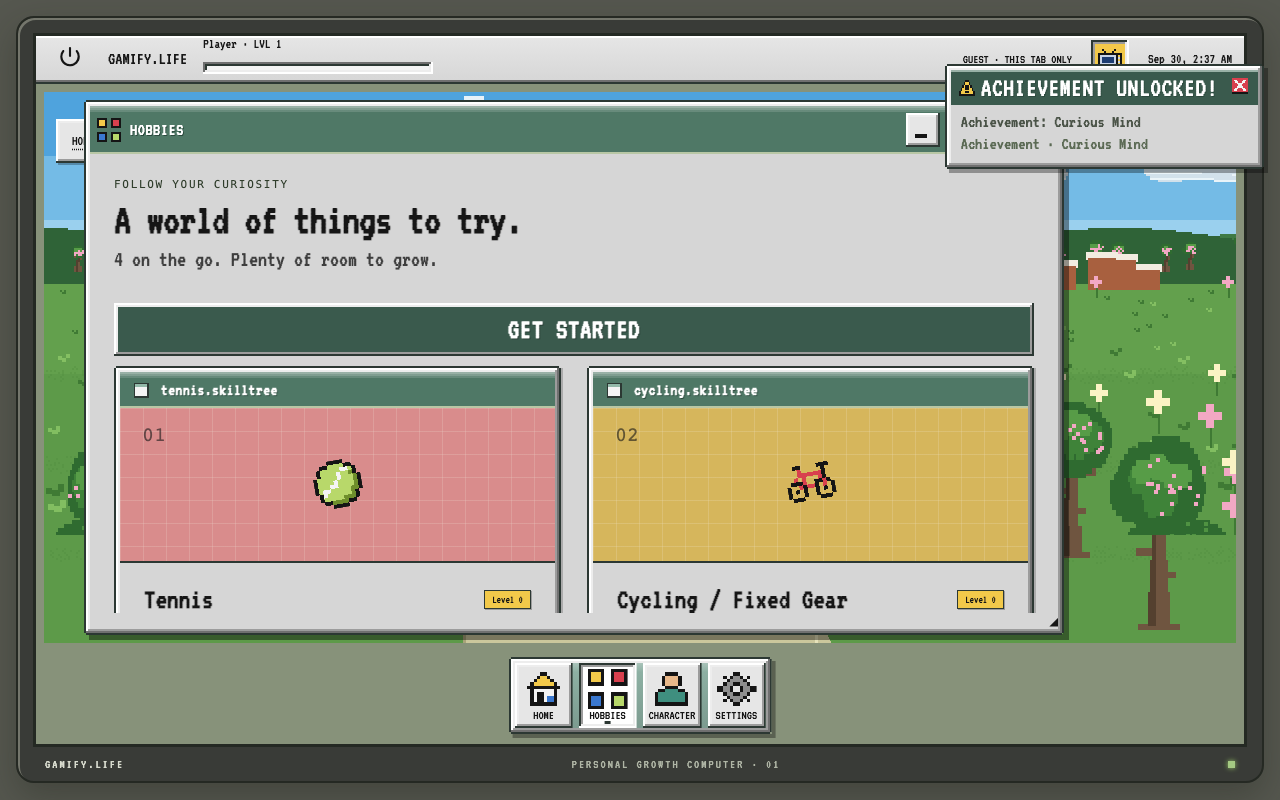
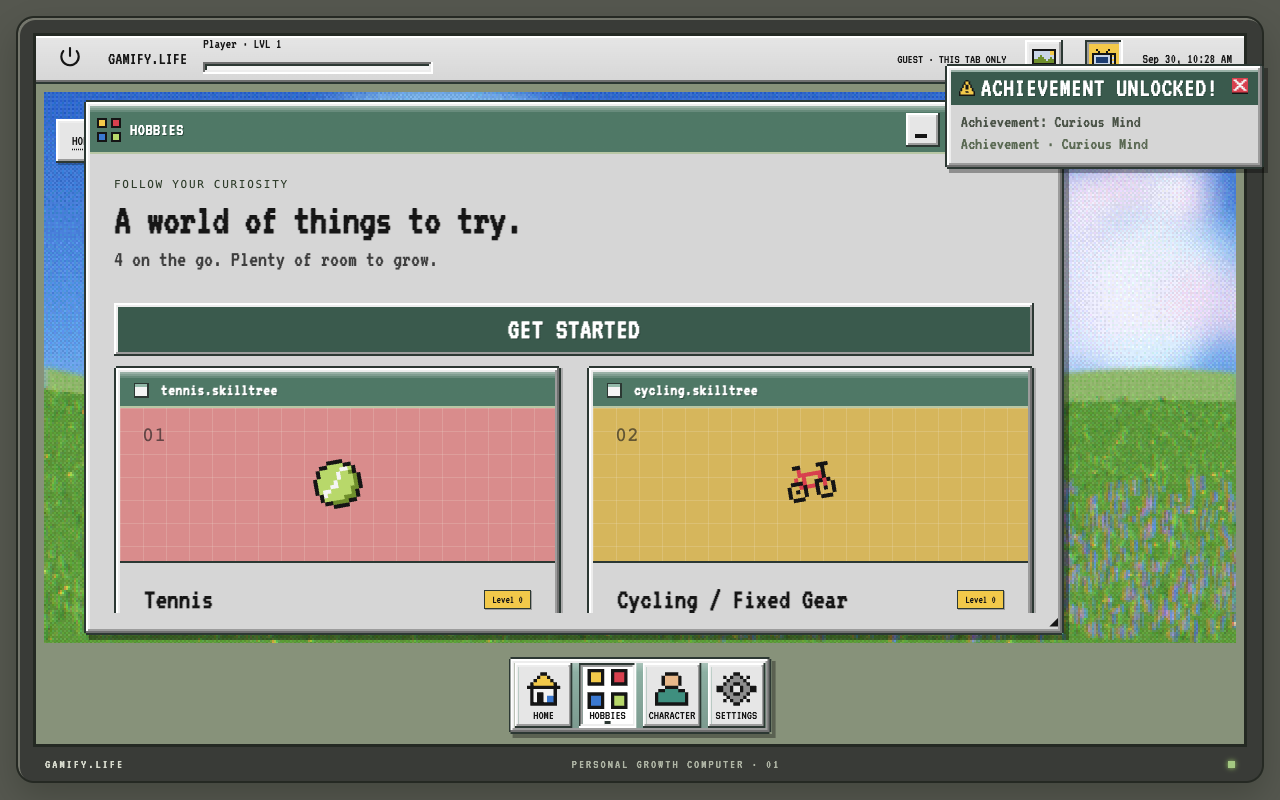
chore(design): after screenshots + report for the wallpaper pass
After screenshots now render with GPU flags so the Pixi scenes show
(software GL keeps the CSS fallback). REPORT.md gains the wallpaper
section: how it is built, deviations, deleted files, test changes, gate
and Lighthouse (/home 0.88-0.89, /hobbies/tennis 0.89 vs 0.90-0.93).
README and CONTINUE_HERE no longer point at the removed scene.

diff --git a/docs/design/REPORT.md b/docs/design/REPORT.md
@@ -10,7 +10,7 @@ Screenshots: `docs/design/screens/before/` and `docs/design/screens/after/`, 14 
 - **Font.** VT323 comes through `next/font`, self-hosted. `font-size-adjust: ex-height .6` makes every hard-coded size about 1.25× larger than it was in Pixelify, so the type ramp scaled without touching hundreds of rules. Long lesson prose stays in `system-ui`.
 - **Sprites.** The art lives in `lib/sprites.ts` as letter maps with the reference palette, and renders as SVG, one path per colour. That keeps it server-safe with no canvas. `<PixelSprite>` draws the icons. `scripts/ui-frames.mts` writes the 9-slice frame files to `public/ui/*.svg` plus the app icon, which works as the "build-time frames" option.
 - **CRT.** The existing `scanlinesEnabled` preference ("Disable screen texture") is the CRT switch. `html[data-texture]` drives it in pure CSS: scanlines, shadow mask, vignette, flicker and the roll bar. The `#crtGlow` SVG filter sits on the scene at 1024px and wider. The menu-bar TV button toggles it. No schema change.
-- **Wallpaper.** `components/wallpaper.tsx` uses Pixi v7, the reference's API. It sits behind boot, login, setup and auth, tinted per season, and is built at idle time. Blurred layers are baked into textures once, so each frame is nine sprites plus one dither pass, capped at 12fps.
+- **Wallpaper (brief v2, §2.6).** The old seasonal scene is replaced by the reference's four Pixi v7 scenes, ported from `docs/design/retro-reference.html` into `lib/wallpapers/*.ts`: Spring Meadow, Autumn Hills, City Nights and Summer Beach. Each is a builder taking a shared kit with the same seeded RNG, helpers, colours and updaters. `components/scene-wallpaper.tsx` runs them behind the home desktop, with the scene under the CRT/dither shader and Neo's chrome surfboard (`lib/wallpapers/surfboard.ts`) outside it. The DOM character rides the board's bob and roll. See the wallpaper section below.
 
 ## Checklist
 
@@ -20,7 +20,9 @@ Screenshots: `docs/design/screens/before/` and `docs/design/screens/after/`, 14 
 | Window, button, inputs, select, checkbox, radio, tabs, progress, badge, empty, dialog backdrop | Done, restyled in place (no new component layer; see decisions) |
 | Taskbar (dock) with pixel icons and a `!` badge for an open pinned quest | Done; all four dock edges kept |
 | CRT overlay, glow, screen-effects toggle (menu bar and Settings) | Done |
-| Pixi wallpaper with dither shader and seasonal tint | Done for the entry screens; the home keeps its SVG seasonal scene (see deferred) |
+| Reference wallpapers (4 scenes, seeded, dither shader) replacing the seasonal scene | Done |
+| Chrome surfboard under the character, crisp outside the shader | Done; anchored to the character's layout position (see below) |
+| Display Properties window (preview, list, OK / Cancel / Apply) in the tray, `wallpaper` preference | Done |
 | Boot (typed BIOS text), login | Done |
 | Setup as an installer | Done |
 | Character creator, appearance editor | Done; the paper doll is untouched, only framed |
@@ -46,7 +48,6 @@ Screenshots: `docs/design/screens/before/` and `docs/design/screens/after/`, 14 
 ## Deferred
 
 - **404.** `app/[[...path]]/page.tsx` renders the desktop for every path. A not-found page would change routing, which is out of scope for a visual pass.
-- **Pixi on the home desktop.** The home is a full-bleed SVG seasonal scene, and a canvas behind it would be invisible. The scene gets the glow and the CRT overlay, but not the dither shader. It is authored pixel art, and posterising it degraded it. Follow-up if wanted: render the scene into Pixi.
 - **Tooltip component.** The app has no custom tooltips, only `title` attributes, so there was nothing to restyle. The yellow sticky-note style is used on the home greeting and on START HERE.
 - **Emoji left in place.**
   - Hobby emoji inside page-heading strings (`PageHeading` takes a string title).
@@ -54,15 +55,56 @@ Screenshots: `docs/design/screens/before/` and `docs/design/screens/after/`, 14 
   - Glyphs inside real text such as "✓ Complete this week", which a test matches on.
 - **Lesson prose font.** Multi-paragraph lesson bodies use `system-ui` for readability, as the brief allowed.
 
+## Wallpaper replacement (brief v2 §2.6)
+
+**How it works**
+
+- **Scenes.** `lib/wallpapers/{meadow,fall,city,beach}.ts` hold the reference's builder code, colours and animation, and `lib/wallpapers/kit.ts` holds its helpers and seeded RNG, so each scene looks the same on every load and resize. `lib/wallpapers/index.ts` is the registry: labels, CSS preview gradients, surfboard styles, and the season mapping.
+- **Auto.** "Auto" follows the season the player already chooses under Desktop themes (`profile.themeId`), not the calendar: spring → meadow, summer → beach, fall → fall, winter → city. The season picker keeps working and now sets both the wallpaper (under Auto) and the character lighting and control accents it always set.
+- **Preference.** `wallpaper: z.enum(['auto','meadow','fall','city','beach']).default('auto')` sits in the profile next to the existing preferences, is optional in the profile command so a partial edit never resets it, and has a legacy-parse test. Display Properties is a tray button next to the TV toggle.
+- **Surfboard.** The board sits at the character's anchor from `lib/home-scene.ts`, not a fixed `(W/2, H*.66)`. The character-position setting (left / center / right) and every layout clearance test depend on that anchor. At the default position it is the screen centre. The bob and roll go on the inner sprite button (`translate` and `rotate`, origin at the feet), so the layout box the tests measure stays still.
+- **Where Pixi loads.** Only on the desktop (brief §5). Boot, login and setup show the chosen scene's CSS gradient, the same one Display Properties uses as its preview.
+
+**Performance changes to the port.** None of these is meant to change what you see.
+- Blurred layers are rendered to textures once after building, instead of re-blurring every frame. Pixi 7's `cacheAsBitmap` drops filtered objects, so this is an explicit bake.
+- Clouds are blurred one by one rather than through their shared parent.
+- Runs of static layers are merged into one texture each.
+- The meadow's nebula and cumulus sit just behind the cloud layer instead of inside it, so they merge into the static sky.
+- Baking yields between textures.
+- The ticker is capped at 12fps.
+- Where WebGL has no GPU behind it (SwiftShader, llvmpipe, or no WebGL), the scene doesn't run and the CSS gradient stays. In software it cost several seconds per page load, and it tripled the e2e run time.
+
+**Checked at:** 375×812, 768×1024, 1280×800 and 1920×1080, all four scenes. Nothing stretches; the scenes rebuild on resize.
+
+**Known:** at every size the "YOUR PATH" button overlaps the board's deck like a nameplate. Moving it lower would break the home layout's clearance tests.
+
+**Deleted after the new scene passed e2e and axe:**
+- `components/seasonal-scene.tsx`
+- `components/seasonal-wallpaper.tsx`
+- `components/wallpaper.tsx`, the interim entry wallpaper
+- `scripts/create-season-art.py`
+- `public/themes/*.svg` (12 files)
+- The old scene's CSS in `app/retro.css` and `app/home-scene.css`
+- The dead `palette`, `backgroundLayers` and `animationLayers` fields in `lib/themes.ts`
+
+The season names now match their scenes (Spring Meadow, Summer Beach, Autumn Hills, City Nights). `lib/scene-manifest.ts` points at the new renderer and builders, and `scripts/validate-scene.ts` checks that the builders exist.
+
+**Test changes.** All of these follow from the replaced DOM, or are new tests.
+- `polish.spec.ts`, season previews: the old checks counted 24 `.scene-particle` DOM nodes and read their CSS animation. Particles now live in the canvas, so the test checks the same intent through `data-scene="fall"`, `data-intensity="normal"`, `data-still` flipping to `true` under reduced motion, and `data-paused` when the tab is hidden.
+- `polish.spec.ts`, representative scenes: the old check counted 9 `[data-scene-layer]` SVG groups; it now checks each season shows its mapped `data-scene`.
+- `polish.spec.ts`: a new test covers Display Properties (open from the tray, axe audit, pick City Nights, OK, persisted after reload).
+- `retro.spec.ts`, calendar: the plan-removal check read storage once, straight after the click. The save takes about 50ms both before and after this change; the lighter page just exposed the race. It now polls for the same result.
+- New unit tests: `tests/wallpapers.test.ts` and a `wallpaper` case in `tests/preferences.test.ts`.
+
 ## Gate
 
 | Check | Baseline (`v0.8-tree-focus`) | Final |
 |---|---|---|
 | `seed:validate` | OK | OK (121 lessons, 10 hobbies) |
 | `typecheck` | clean | clean |
-| `lint` | 0 errors, 6 warnings | 0 errors, 5 warnings (all pre-existing, in test files) |
-| `test` (unit) | 102 passed, 1 skipped | 106 passed, 1 skipped (+3 sprite checks, +1 screen-effects preference) |
-| `test:e2e` | 120 passed, 2 failed, 2 skipped | 120 passed, 2 failed, 2 skipped (the same journey test on both projects; its desktop run passed in 5 of the 9 per-commit runs) |
+| `lint` | 0 errors, 6 warnings | 0 errors, 4 warnings (all pre-existing, in test files) |
+| `test` (unit) | 102 passed, 1 skipped | 110 passed, 1 skipped (+3 sprite checks, +2 preference cases, +3 wallpaper checks) |
+| `test:e2e` | 120 passed, 2 failed, 2 skipped | 122 passed, 2 failed, 2 skipped (+1 Display Properties test; the 2 failures are the pre-existing journey test on both projects) |
 | `build` | OK | OK |
 
 The one e2e failure is `journey.spec.ts` "mobile journey and accessible primary screens". It fails the same way on the untouched tag: `.skill-tree-panel` intercepts the click on the tree node. It always fails on mobile and sometimes on desktop, and a separate task was suggested for it.
@@ -75,8 +117,8 @@ Both routes render the login screen without a session, in both the baseline and 
 
 | Route | Before | After |
 |---|---|---|
-| `/home` | 0.90 / 0.92 / 0.92 | 0.88 / 0.89 / 0.89 / 0.90 |
-| `/hobbies/tennis` | 0.92 / 0.92 / 0.93 | 0.89 / 0.89 / 0.89 / 0.89 |
+| `/home` | 0.90 / 0.92 / 0.92 | 0.88 / 0.89 / 0.89 |
+| `/hobbies/tennis` | 0.92 / 0.92 / 0.93 | 0.89 / 0.89 / 0.89 |
 | Accessibility | 0.98 (`landmark-one-main`) | 0.98 (`landmark-one-main`) |
 
 Both routes are within the 5-point budget. The boot screen's old `label-content-name-mismatch` is fixed: the skip control is now a labelled button.
@@ -85,7 +127,7 @@ Both routes are within the 5-point budget. The boot screen's old `label-content-
 
 ## DOM and selector changes
 
-No test file was edited, apart from one new unit test in `tests/preferences.test.ts` and the new `tests/sprites.test.ts`.
+The wallpaper replacement's test changes are listed above. Before it, no test file was edited, apart from one new unit test in `tests/preferences.test.ts` and the new `tests/sprites.test.ts`.
 
 - Window title-bar buttons, the dialog close button, the phone back and close buttons, and the reward dismiss button now hold an `<svg>` sprite instead of a text glyph. Their accessible names are unchanged.
 - Boot: the whole-screen `<button>` became a `<div>` holding an `aria-hidden` BIOS log and a real button, "Skip boot animation · any key". Any key now skips, not only Enter or Escape.
@@ -93,6 +135,8 @@ No test file was edited, apart from one new unit test in `tests/preferences.test
 - Menu bar: a new "Screen effects" toggle button (`aria-pressed`).
 - Reward toast: a new `aria-hidden` title line.
 - Skill-tree edges went from `smoothstep` to `step`, and locked edges use a `2 4` dash.
+- Home: `.anchored-seasonal-scene` is now a `<div>` hosting the Pixi canvas instead of an `<svg>`. It keeps `data-season` and `data-anchor-x`, and adds `data-scene`, `data-still`, `data-paused` and `data-render`.
+- Menu bar: a new "Display properties" button that opens the Display Properties dialog.
 
 ## Files
 
@@ -100,10 +144,13 @@ New:
 - `app/reskin.css`
 - `lib/sprites.ts`
 - `components/pixel-sprite.tsx`
-- `components/wallpaper.tsx`
+- `lib/wallpapers/*.ts`
+- `components/scene-wallpaper.tsx`
+- `components/display-properties.tsx`
+- `tests/wallpapers.test.ts`
 - `scripts/ui-frames.mts`
 - `scripts/screens.mts`
 - `public/ui/*.svg`
 - `tests/sprites.test.ts`
 
-New dependency: `pixi.js@7.4.3`. It is loaded only through a dynamic import on the entry screens.
+New dependency: `pixi.js@7.4.3`. It is loaded only through a dynamic import on the home desktop, and only when WebGL runs on a GPU.

diff --git a/README.md b/README.md
@@ -143,6 +143,6 @@ These are intentionally versioned screenshots of the original application, captu
 
 ## Original assets and reproducibility
 
-`public/themes/` contains original generated SVG artwork, intentionally tracked with its generator. `components/avatar.tsx` and `components/pixel-icon.tsx` contain original pixel artwork. The locally hosted Pixelify Sans font is third-party licensed material, distributed with its SIL OFL license. No uploaded reference artwork is included.
+The desktop wallpapers are procedural scenes drawn in code (`lib/wallpapers/`), and `lib/sprites.ts` holds the original pixel icons and frames. `components/avatar.tsx` contains original pixel artwork. The locally hosted Pixelify Sans font is third-party licensed material, distributed with its SIL OFL license. No uploaded reference artwork is included.
 
 Database migrations, generated seed data, `pnpm-lock.yaml`, and the empty `.env.example` configuration template are tracked. Local `.env` files, installed dependencies, build output, browser traces, and temporary screenshots are ignored.

diff --git a/docs/CONTINUE_HERE.md b/docs/CONTINUE_HERE.md
@@ -1,5 +1,13 @@
 # Gamify.Life — continuation handoff
 
+## September 30, 2026 update: retro reskin (read docs/design/REPORT.md)
+
+The reskin on `design/retro-reskin` restyles the existing classes from `app/reskin.css` (loaded last) and
+replaces the seasonal SVG scene with four Pixi wallpapers (`lib/wallpapers/`, run by
+`components/scene-wallpaper.tsx`); the character rides a chrome surfboard anchored by `lib/home-scene.ts`.
+`profile.wallpaper` picks the scene; `auto` follows `profile.themeId`. The sections below that describe
+`components/seasonal-scene.tsx` are history: that file is gone.
+
 ## September 23, 2026 update: four tabs (read this before adding a screen)
 
 The app had eight dock apps with real overlap. It now has three windowed apps plus the desktop:
